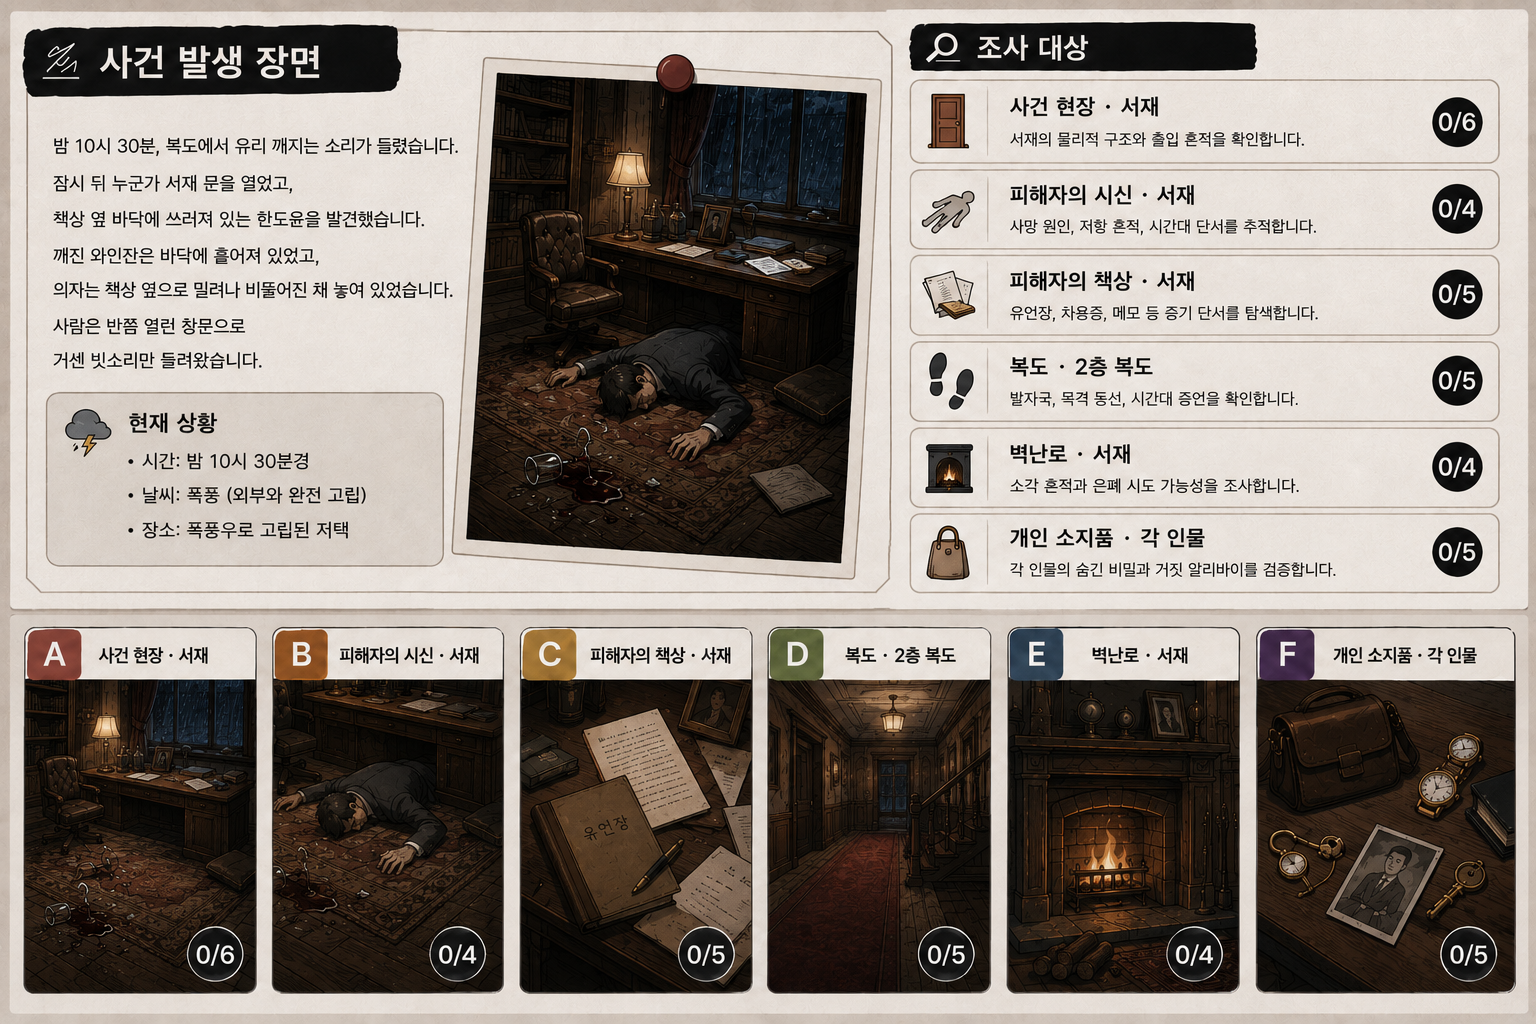
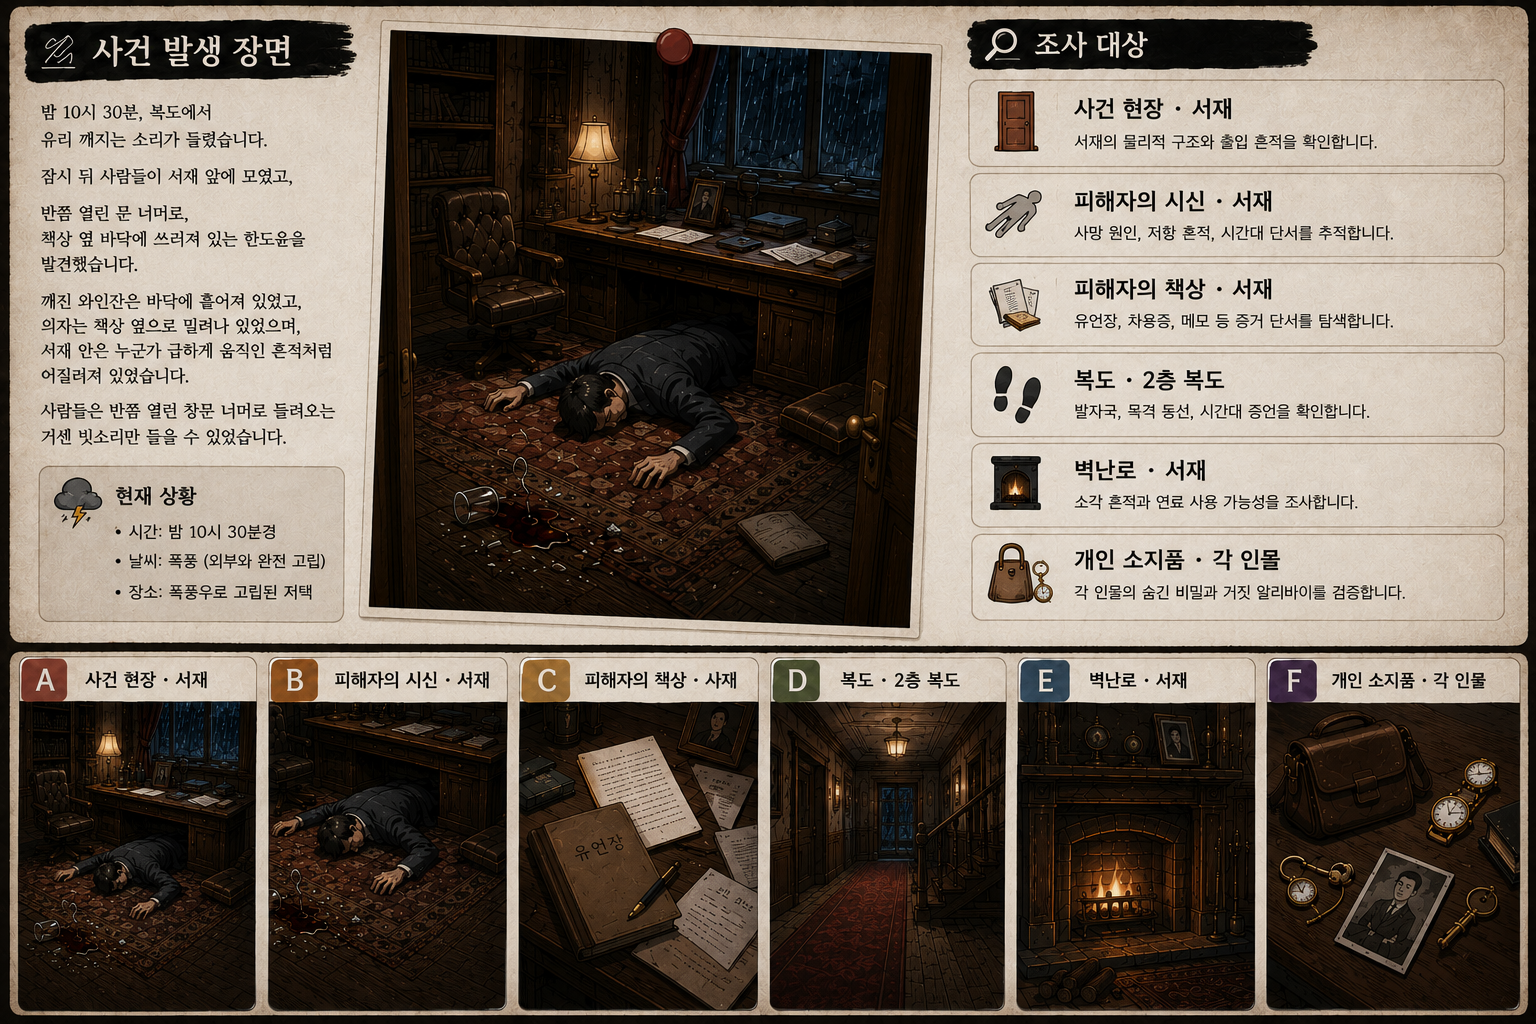
이미지 수정

diff --git a/src/data/scenarios/case-001.ts b/src/data/scenarios/case-001.ts
@@ -45,13 +45,24 @@ export const CASE_001: Scenario = {
   mapImageUrl: "/images/maps/scenario1_map.png",
 
   mapPoints: [
-    { id: "study_scene", name: "사건 현장", x: 49.4, y: 42.7 },
-    { id: "victim_body", name: "피해자의 시신", x: 49.0, y: 34.0 },
-    { id: "desk_docs", name: "피해자의 책상", x: 49.4, y: 26.8 },
-    { id: "corridor", name: "복도", x: 49.5, y: 69.6 },
-    { id: "fireplace", name: "벽난로", x: 63.6, y: 42.8 },
-    { id: "personal_items", name: "개인 소지품", x: 76.4, y: 66.0 },
-    { id: "hidden_drawer", name: "숨겨진 서랍", x: 27.8, y: 28.2 },
+    { id: "study_scene", name: "사건 현장", x: 36.0, y: 49.0 },
+
+    { id: "victim_body", name: "피해자의 시신", x: 52.0, y: 39.0 },
+
+    { id: "desk_docs", name: "피해자의 책상", x: 49.5, y: 26.5 },
+
+    { id: "corridor", name: "복도", x: 49.0, y: 72.0 },
+
+    { id: "fireplace", name: "벽난로", x: 66.5, y: 44.0 },
+
+    { id: "personal_items", name: "개인 소지품", x: 78.5, y: 72.0 },
+
+    {
+      id: "hidden_drawer",
+      name: "숨겨진 서랍",
+      x: 27.5,
+      y: 29.0,
+    },
   ],
 
   roles: [